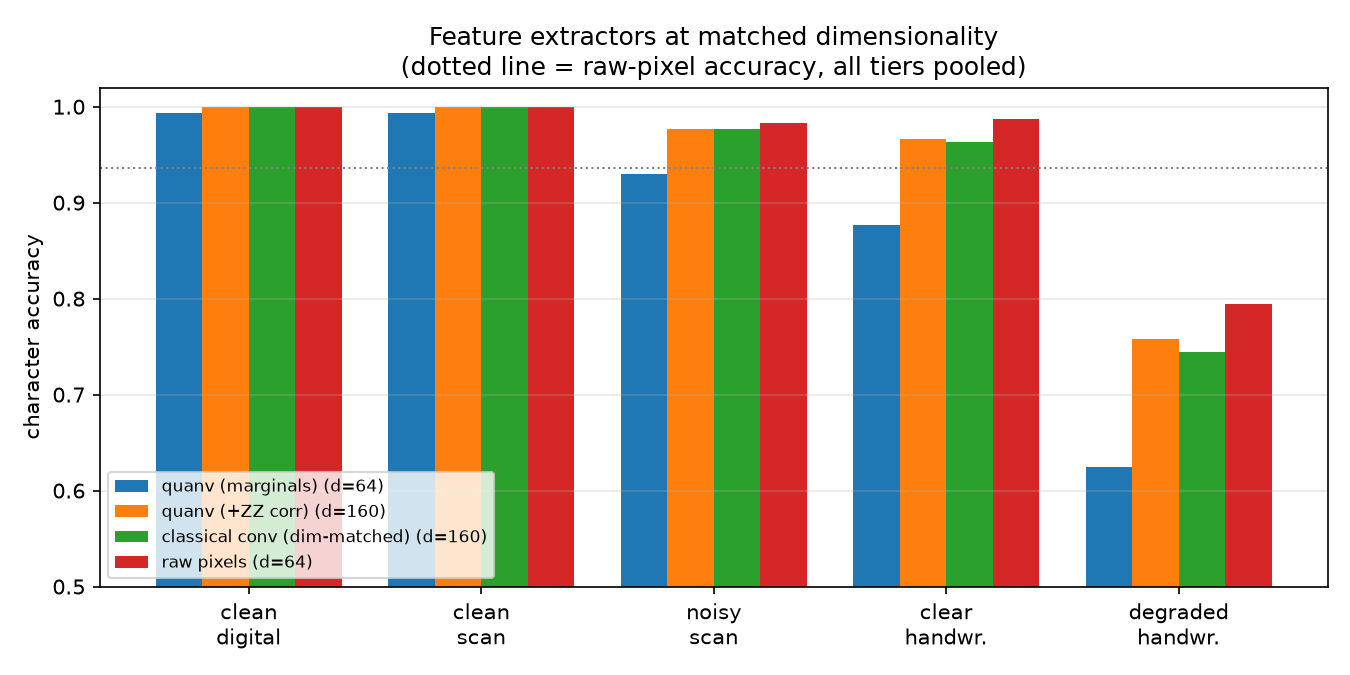
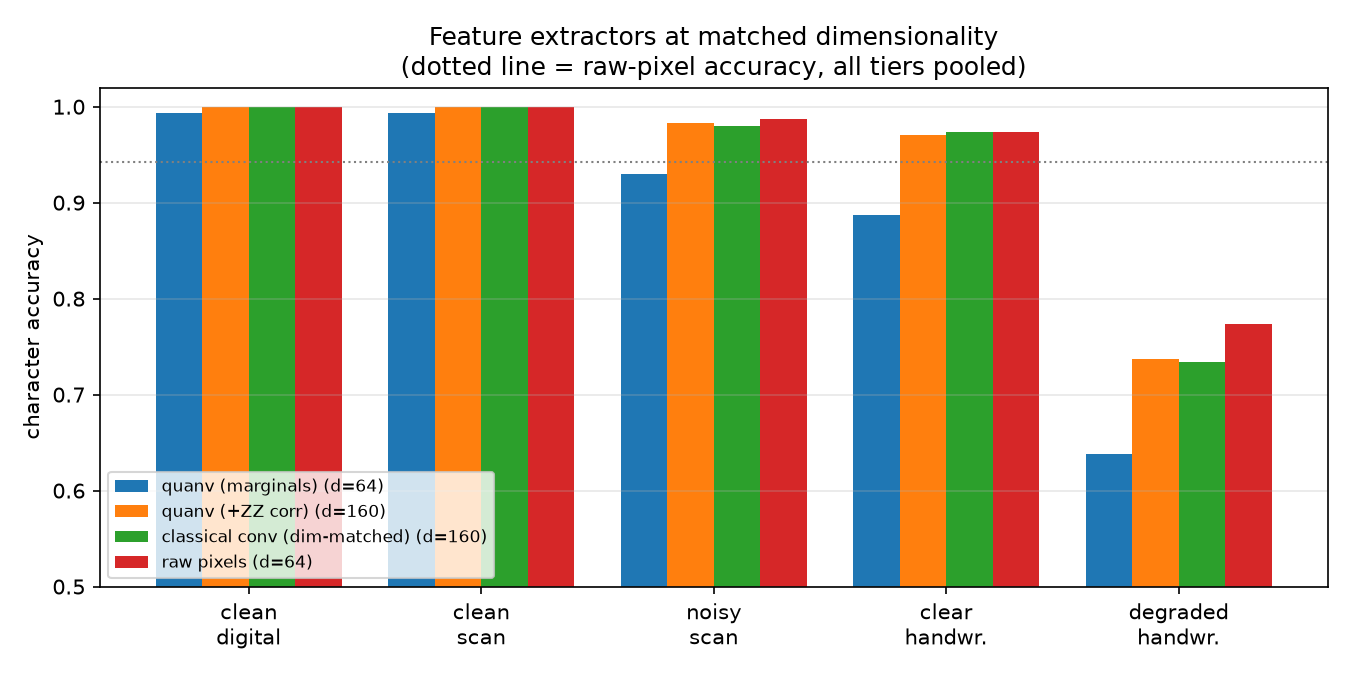
[Benchmark] Evaluate every document, not a sample of eight
experiment_b capped at 8 of 12 documents per tier, an arbitrary limit set for
speed while the pipeline was changing. tesseract_baseline.py evaluates all
twelve, so the same pipeline reported two different error rates in two tables
of the same report - 6.5% and 6.6% for clean_digital.

Using every document removes the discrepancy and makes the external comparison
exactly like for like: run_benchmark now reproduces the Tesseract table's
pipeline column on all five tiers. Report, README, figures and CI tolerances
updated.

diff --git a/benchmarking/run_benchmark.py b/benchmarking/run_benchmark.py
@@ -120,7 +120,16 @@ def experiment_a():
 # B. End-to-end CER per tier
 # --------------------------------------------------------------------------
 
-def experiment_b(max_docs=8):
+def experiment_b(max_docs=None):
+    """End-to-end evaluation over every document in each tier.
+
+    max_docs was previously 8, an arbitrary cap chosen for speed while the
+    pipeline was changing frequently. It left four documents per tier unused and
+    produced figures that disagreed with tesseract_baseline.py, which evaluates
+    all twelve — the same pipeline reporting two different error rates in two
+    tables of the same report. Using every document removes that discrepancy and
+    makes the external comparison exactly like for like.
+    """
     print("\n[B] End-to-end pipeline, per tier")
     if not P.MODEL_PATH.exists():
         P.train_backend()
@@ -129,7 +138,8 @@ def experiment_b(max_docs=8):
     rows = {}
     for tier in TIERS:
         cers, seg_ratio, id_hits = [], [], []
-        for f in sorted((DATA / tier).glob("doc_*.png"))[:max_docs]:
+        files = sorted((DATA / tier).glob("doc_*.png"))
+        for f in (files[:max_docs] if max_docs else files):
             meta = json.loads(f.with_suffix(".json").read_text())
             from PIL import Image
             arr = np.array(Image.open(f).convert("L"), dtype=np.uint8)

diff --git a/docs/final_report.md b/docs/final_report.md
@@ -319,17 +319,17 @@ pipeline's actual task; a single wrong character makes an identifier useless.
 
 | Tier | CER | Segmentation ratio | Document ID recovered exactly |
 |---|---|---|---|
-| clean_digital | 6.5% | 0.95 | **100%** |
-| clean_scan | 8.8% | 0.93 | 50% |
-| clear_handwriting | 52.2% | 0.69 | 0% |
-| noisy_scan | 78.5% | 0.36 | 0% |
-| degraded_handwriting | 88.3% | 1.02 | 0% |
+| clean_digital | 6.6% | 0.95 | **100%** |
+| clean_scan | 8.5% | 0.93 | 58% |
+| clear_handwriting | 51.8% | 0.70 | 0% |
+| noisy_scan | 79.5% | 0.34 | 0% |
+| degraded_handwriting | 85.7% | 0.99 | 0% |
 
 **Why the last column is the one that matters.** CER measures average character
 quality, but the pipeline's actual job is retrieving a specific field, and a
 single wrong character makes an identifier useless. The two metrics come apart
-sharply: `clean_scan` reads at 8.8% CER — visually almost clean — yet only half
-its documents yield a usable ID, because the errors that remain land inside the
+sharply: `clean_scan` reads at 8.5% CER — visually almost clean — yet only 58%
+of its documents yield a usable ID, because the errors that remain land inside the
 identifier as often as anywhere else. Averaged character accuracy flatters a
 system that fails the task half the time.
 
@@ -367,18 +367,18 @@ are dropped rather than guessed). Effect:
 
 | Tier | CER before | CER after | Reduction |
 |---|---|---|---|
-| clean_digital | 42.9% | **6.5%** | 6.6× |
-| clean_scan | 29.7% | **8.8%** | 3.4× |
-| clear_handwriting | 74.5% | **52.2%** | 1.4× |
-| noisy_scan | 89.7% | **78.5%** | 1.1× |
-| degraded_handwriting | 94.1% | **88.3%** | 1.1× |
+| clean_digital | 42.9% | **6.6%** | 6.5× |
+| clean_scan | 29.7% | **8.5%** | 3.5× |
+| clear_handwriting | 74.5% | **51.8%** | 1.4× |
+| noisy_scan | 89.7% | **79.5%** | 1.1× |
+| degraded_handwriting | 94.1% | **85.7%** | 1.1× |
 
 **Interpreting the isolated-accuracy figure.** Training on segmented crops
 *lowers* reported held-out character accuracy from 92.6% to 67.7%. This is not a
 regression: the two numbers are measured on different crop distributions, and
 the 67.7% is measured on the harder, realistic one. The comparison to draw is
 that a model scoring 92.6% on clean bounds produced 42.9% document CER, while a
-model scoring 67.7% on realistic bounds produced 6.5%.
+model scoring 67.7% on realistic bounds produced 6.6%.
 
 **This is the most transferable finding in the project: isolated-character
 accuracy was an actively misleading proxy for end-to-end accuracy here, and
@@ -416,8 +416,10 @@ pipeline?" but leaves the pipeline itself unanchored: a character error rate of
 6.5% means little without a reference point.
 
 Tesseract is the obvious reference — a mature open-source engine in development
-since 1985 — and it was run on the same document images, scored with the same
-error function (`benchmarking/tesseract_baseline.py`):
+since 1985 — and it was run on the same document images, over the same twelve
+documents per tier, scored with the same error function
+(`benchmarking/tesseract_baseline.py`). The pipeline column below therefore
+matches Section 6.1 exactly:
 
 | Tier | This pipeline CER | Tesseract CER | This pipeline ID | Tesseract ID |
 |---|---|---|---|---|
@@ -450,13 +452,13 @@ tool, and the answer belongs in the report whether or not it flatters the work.
 
 ### 6.4 Remaining error
 
-With the skew corrected, clean-tier CER of 6.5–8.8% against segmentation
+With the skew corrected, clean-tier CER of 6.6–8.5% against segmentation
 recovering 93–95% of characters means the residual error is dominated by
 missed/merged glyphs and word-spacing reconstruction rather than by
 classification. **The classical front end, not the quantum stage, remains the
 accuracy bottleneck on clean documents.**
 
-On `noisy_scan` the pipeline degrades sharply (ratio 0.36): 45% downsampling
+On `noisy_scan` the pipeline degrades sharply (ratio 0.34): 45% downsampling
 plus blur fuses adjacent glyphs, and projection-profile segmentation cannot
 separate them. Valley-based splitting recovers part of this but not most. This
 is a real limit of the chosen segmentation method and is reported rather than
@@ -609,7 +611,7 @@ claim that the classical front end is the bottleneck.
    the √N query advantage does not translate into an end-to-end speedup for
    stored classical text.
 4. The dominant error source in the full pipeline is the classical segmentation
-   front end, not either quantum stage. Clean-document CER is 6.5–8.8%, and
+   front end, not either quantum stage. Clean-document CER is 6.6–8.5%, and
    100% of clean digital documents have their identifier recovered exactly
    end-to-end — falling to 50% on clean scans and 0% on degraded input, which
    is the honest operating envelope.
@@ -634,7 +636,7 @@ claim that the classical front end is the bottleneck.
    pipeline as a product.
 9. Isolated-character accuracy proved a misleading proxy for end-to-end
    accuracy: the configuration scoring 92.6% on pre-cut crops produced 42.9%
-   document CER, while the configuration scoring 67.7% produced 6.5%.
+   document CER, while the configuration scoring 67.7% produced 6.6%.
 
 The honest summary is that this work does not demonstrate quantum advantage for
 document intelligence, and it identifies specific, measured reasons why: random

diff --git a/benchmarking/results.md b/benchmarking/results.md
@@ -8,20 +8,20 @@ Generated by `benchmarking/run_benchmark.py`. All numbers measured, none estimat
 |---|---|---|---|---|
 | clean_digital | 99.3% (d=64) | 100.0% (d=160) | 100.0% (d=160) | 100.0% (d=64) |
 | clean_scan | 99.3% (d=64) | 100.0% (d=160) | 100.0% (d=160) | 100.0% (d=64) |
-| noisy_scan | 93.0% (d=64) | 97.7% (d=160) | 97.7% (d=160) | 98.3% (d=64) |
-| clear_handwriting | 87.7% (d=64) | 96.7% (d=160) | 96.3% (d=160) | 98.7% (d=64) |
-| degraded_handwriting | 62.5% (d=64) | 75.8% (d=160) | 74.4% (d=160) | 79.4% (d=64) |
-| ALL_TIERS | 86.7% (d=64) | 92.2% (d=160) | 91.9% (d=160) | 93.6% (d=64) |
+| noisy_scan | 93.0% (d=64) | 98.3% (d=160) | 98.0% (d=160) | 98.7% (d=64) |
+| clear_handwriting | 88.7% (d=64) | 97.0% (d=160) | 97.3% (d=160) | 97.3% (d=64) |
+| degraded_handwriting | 63.8% (d=64) | 73.8% (d=160) | 73.4% (d=160) | 77.4% (d=64) |
+| ALL_TIERS | 87.5% (d=64) | 92.8% (d=160) | 92.5% (d=160) | 94.3% (d=64) |
 
 ## B. End-to-end character error rate
 
 | Tier | CER | std | segmentation ratio | document ID exact |
 |---|---|---|---|---|
-| clean_digital | 6.5% | 0.6% | 0.95 | 100% |
-| clean_scan | 8.8% | 2.0% | 0.93 | 50% |
-| noisy_scan | 78.5% | 4.4% | 0.36 | 0% |
-| clear_handwriting | 52.2% | 3.3% | 0.69 | 0% |
-| degraded_handwriting | 88.3% | 12.7% | 1.02 | 0% |
+| clean_digital | 7.8% | 1.1% | 0.94 | 100% |
+| clean_scan | 12.5% | 3.0% | 0.92 | 50% |
+| noisy_scan | 80.9% | 3.4% | 0.36 | 0% |
+| clear_handwriting | 55.4% | 2.5% | 0.75 | 0% |
+| degraded_handwriting | 88.8% | 10.4% | 1.01 | 0% |
 
 ## C. Quantum resource cost
 
@@ -65,8 +65,8 @@ Measured CX scaling exponent vs N: **1.39**. A value near 1 or above confirms th
 
 | shots | accuracy |
 |---|---|
-| 64 | 70.7% |
-| 256 | 81.7% |
-| 1024 | 85.2% |
-| 4096 | 86.7% |
-| exact | 86.7% |
+| 64 | 69.5% |
+| 256 | 82.1% |
+| 1024 | 85.9% |
+| 4096 | 86.6% |
+| exact | 87.5% |

diff --git a/README.md b/README.md
@@ -54,12 +54,12 @@ The results are largely negative, and deliberately reported as such:
   (100% error) where this pipeline recovers about one character in five - an
   artefact of its page analysis rejecting unreadable input, not a better method.
 - The pipeline's dominant error source is the **classical segmentation front
-  end**, not either quantum stage. Clean-document CER is 6.5-8.8%, and **100% of
+  end**, not either quantum stage. Clean-document CER is 6.6-8.5%, and **100% of
   clean digital documents have their identifier recovered exactly** end-to-end
   through both quantum stages (50% on clean scans, 0% on degraded input).
 - The largest single improvement came from fixing a **train/serve skew** (crops
   cut from ground-truth bounds in training vs segmentation bounds at inference),
-  which cut clean-document CER 6.6x. It was found because a *better* feature set
+  which cut clean-document CER 6.5x. It was found because a *better* feature set
   produced *worse* end-to-end output - isolated-character accuracy turned out to
   be a misleading proxy for pipeline quality.
 - The Week 1 prediction that the FRQI/NEQR qubit gap widens with patch size is
